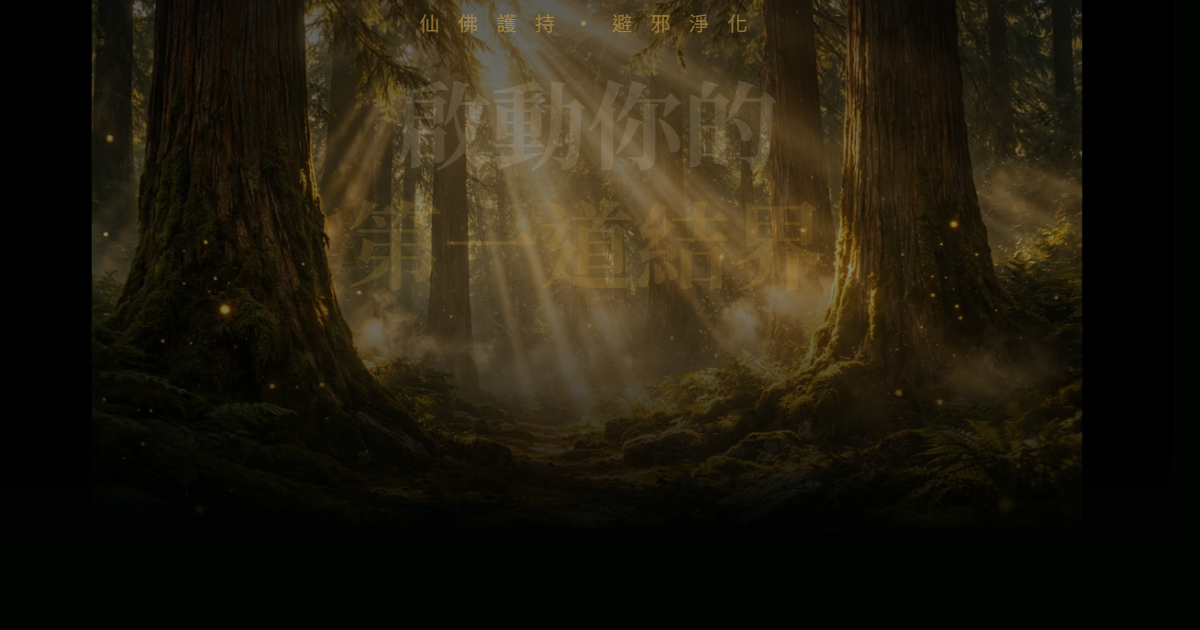
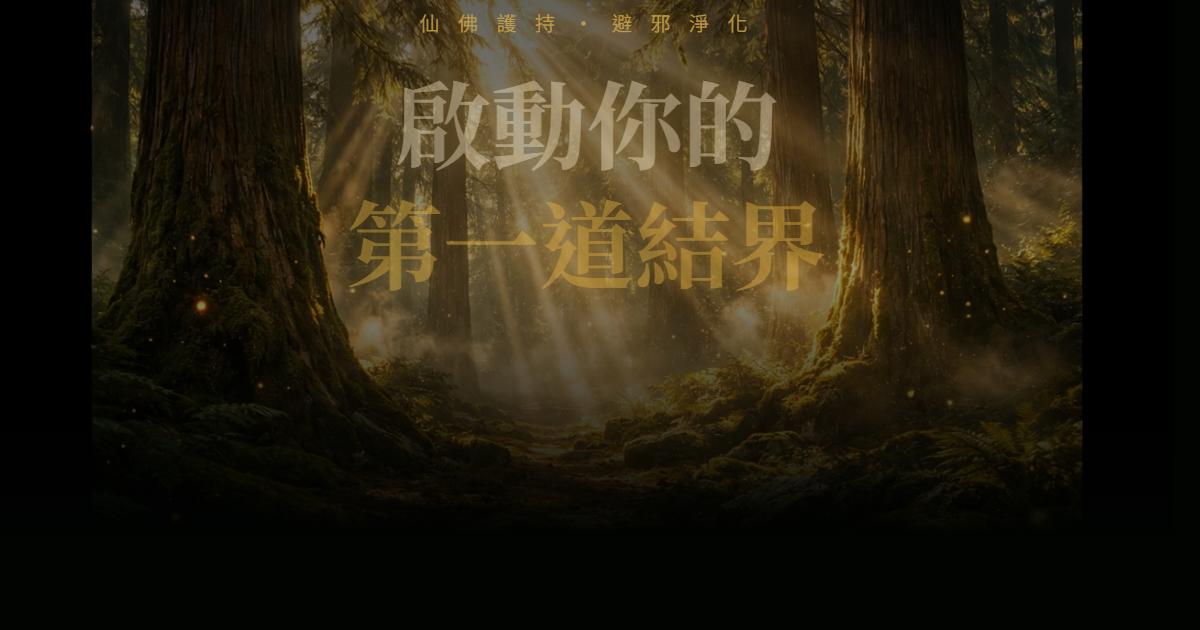
seo: update GSC verification token and re-capture home OG at 2s

diff --git a/app/layout.tsx b/app/layout.tsx
@@ -64,7 +64,7 @@ export const metadata: Metadata = {
     icon: "/favicon.ico",
   },
   verification: {
-    google: "eBQecTnxY_7xwmP5sqWgCnpTVLZg47BsjpWEtGVn-Uk",
+    google: "1zPLqymOi-iBw1NrZMFaS7FNbpCZJw8HRXjyx6WS-QI",
   },
 };
 
